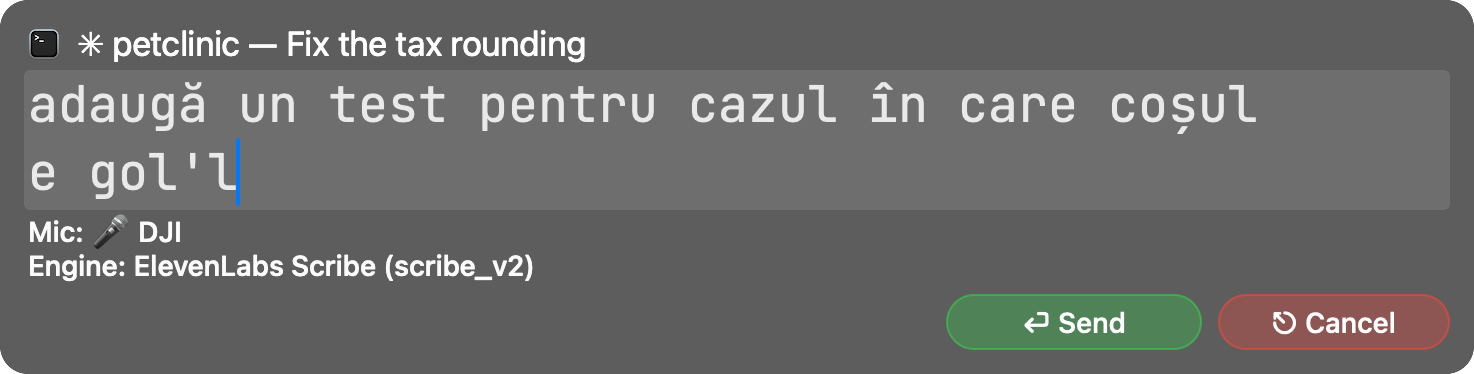
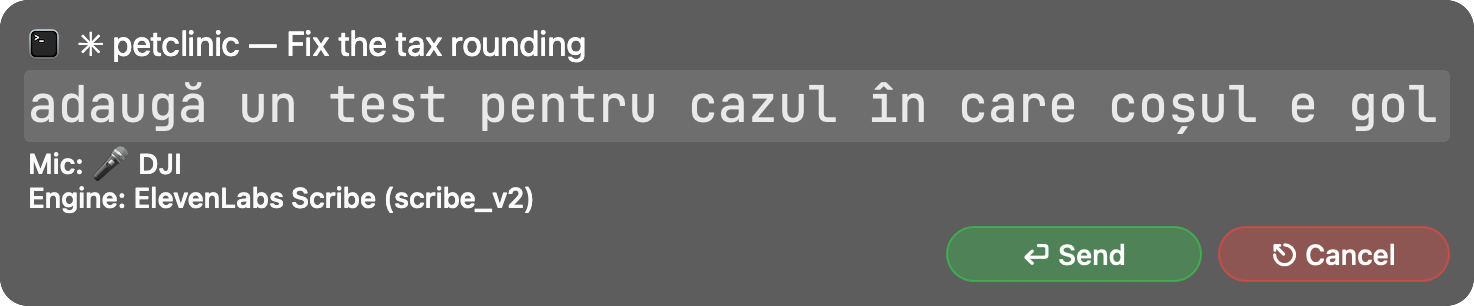
The states shoot puts no window on his screens: every NSWindow is swizzled offstage under RELAY_SHOOT, the menu-bar item hidden

Changed region(s): [[0.0, 0.0588, 0.9986, 0.7647], [0.6242, 0.7353, 1.0, 0.9706], [0.9986, 0.0294, 1.0, 0.0882]]

diff --git a/Sources/WalkieTalkie/Offstage.swift b/Sources/WalkieTalkie/Offstage.swift
@@ -1,0 +1,74 @@
+import AppKit
+import ObjectiveC
+
+/// **Under `RELAY_SHOOT` no window of this process ever reaches a screen**
+/// (2026-10-08, Victor: *"când faci pozele la acele tooltipuri … și la panelul
+/// din stânga sus, mereu mă frânez din a dicta … să nu mai văd alea … îmi apare
+/// și în jurul mouse-ului, mă distrage"*).
+///
+/// The chip already parked itself 4000 pt off the displays while shooting
+/// (`RelayWindow.reposition`), but only on that one path: the pointer-following
+/// path, the panel unfolding into its corner, the hint bar, the halo and every
+/// other window still put frames on his screen for a third of a second each.
+/// Patching each was the losing game, so this catches them at the source: every
+/// frame setter and every order-front of every `NSWindow` is swizzled to shift
+/// the window `shift` points left of where it was asked to be. A snapshot is the
+/// view drawing itself (`cacheDisplay`), which needs a window, not a visible
+/// one, so the pictures do not change — sizes and everything inside are as asked.
+///
+/// Installed from `main.swift` before `NSApplication.shared`, and only when
+/// `RELAY_SHOOT` is set; nothing else ever runs through it.
+enum Offstage {
+    /// Far enough left of the leftmost display any desk has; idempotent past
+    /// `threshold`, because layout code reads the frame back and sets it again.
+    static let shift: CGFloat = 12000
+    private static let threshold: CGFloat = -8000
+
+    static func offstage(_ r: NSRect) -> NSRect {
+        r.minX < threshold ? r : r.offsetBy(dx: -shift, dy: 0)
+    }
+
+    static func install() {
+        swap(#selector(NSWindow.setFrame(_:display:)), #selector(NSWindow.wt_setFrame(_:display:)))
+        swap(#selector(NSWindow.setFrame(_:display:animate:)), #selector(NSWindow.wt_setFrame(_:display:animate:)))
+        swap(#selector(NSWindow.setFrameOrigin(_:)), #selector(NSWindow.wt_setFrameOrigin(_:)))
+        swap(#selector(NSWindow.setFrameTopLeftPoint(_:)), #selector(NSWindow.wt_setFrameTopLeftPoint(_:)))
+        swap(#selector(NSWindow.orderFront(_:)), #selector(NSWindow.wt_orderFront(_:)))
+        swap(#selector(NSWindow.orderFrontRegardless), #selector(NSWindow.wt_orderFrontRegardless))
+        swap(#selector(NSWindow.makeKeyAndOrderFront(_:)), #selector(NSWindow.wt_makeKeyAndOrderFront(_:)))
+        swap(#selector(NSWindow.order(_:relativeTo:)), #selector(NSWindow.wt_order(_:relativeTo:)))
+    }
+
+    private static func swap(_ original: Selector, _ replacement: Selector) {
+        guard let a = class_getInstanceMethod(NSWindow.self, original),
+              let b = class_getInstanceMethod(NSWindow.self, replacement) else { return }
+        method_exchangeImplementations(a, b)
+    }
+}
+
+extension NSWindow {
+    // After the exchange each `wt_` name calls the original implementation.
+    @objc fileprivate func wt_setFrame(_ r: NSRect, display: Bool) {
+        wt_setFrame(Offstage.offstage(r), display: display)
+    }
+    @objc fileprivate func wt_setFrame(_ r: NSRect, display: Bool, animate: Bool) {
+        wt_setFrame(Offstage.offstage(r), display: display, animate: animate)
+    }
+    @objc fileprivate func wt_setFrameOrigin(_ p: NSPoint) {
+        wt_setFrameOrigin(Offstage.offstage(NSRect(origin: p, size: frame.size)).origin)
+    }
+    @objc fileprivate func wt_setFrameTopLeftPoint(_ p: NSPoint) {
+        let r = Offstage.offstage(NSRect(x: p.x, y: p.y - frame.height, width: frame.width, height: frame.height))
+        wt_setFrameTopLeftPoint(NSPoint(x: r.minX, y: r.maxY))
+    }
+    private func wt_park() {
+        if frame.minX >= -8000 { wt_setFrameOrigin(Offstage.offstage(frame).origin) }
+    }
+    @objc fileprivate func wt_orderFront(_ sender: Any?) { wt_park(); wt_orderFront(sender) }
+    @objc fileprivate func wt_orderFrontRegardless() { wt_park(); wt_orderFrontRegardless() }
+    @objc fileprivate func wt_makeKeyAndOrderFront(_ sender: Any?) { wt_park(); wt_makeKeyAndOrderFront(sender) }
+    @objc fileprivate func wt_order(_ place: NSWindow.OrderingMode, relativeTo other: Int) {
+        if place != .out { wt_park() }
+        wt_order(place, relativeTo: other)
+    }
+}

diff --git a/docs/overlay-states.html b/docs/overlay-states.html
@@ -726,16 +726,16 @@
       <section class="card" id="prompt-editing">
         <header>
           <h3>Correcting the transcript</h3>
-          <div class="tags"><span class="tag tag-panel" title="top-left of the screen, blurred, full opacity, ✕ on hover">panel</span><span class="tag">alpha 1.00</span><span class="tag">737×187 pt</span></div>
+          <div class="tags"><span class="tag tag-panel" title="top-left of the screen, blurred, full opacity, ✕ on hover">panel</span><span class="tag">alpha 1.00</span><span class="tag">737×153 pt</span></div>
         </header>
-        <div class="shot"><img src="states/prompt-editing.png" width="737" height="187" style="opacity:1" alt="Correcting the transcript"></div>
+        <div class="shot"><img src="states/prompt-editing.png" width="737" height="153" style="opacity:1" alt="Correcting the transcript"></div>
         <p class="when">He clicked the words — one wrong word in forty is not worth saying again.</p>
         <p class="note">The clock stops (<code>⏎ Send</code> with no seconds) and the field holds <em>only his words</em>: the <code>📸</code> and <code>↪</code> decorations the preview adds are not his, so they must not be in the box he is typing in. Nothing takes him out of it except Send or Cancel.</p>
         <code class="slug">prompt-editing</code>
       </section>
     </div>
 <footer>
-  Generated from <code>OverlayStates.swift</code> · repo at c442ca4 · 08 Oct 2026 · built 08 Oct 2026, 06:39
+  Generated from <code>OverlayStates.swift</code> · repo at 6447c6d · 08 Oct 2026 · built 08 Oct 2026, 06:53
 </footer>
 <button class="toggle" onclick="document.body.classList.toggle('light')">Backdrop: dark / light</button>
 </body>

diff --git a/Sources/WalkieTalkie/main.swift b/Sources/WalkieTalkie/main.swift
@@ -128,6 +128,9 @@ if let spec = ProcessInfo.processInfo.environment["WT_HALO_DEMO"] {
     CaretHalo.demo(seconds: Double(spec) ?? 20)
 }
 
+// The states catalogue is shot with every window off the displays — `Offstage`.
+if ProcessInfo.processInfo.environment["RELAY_SHOOT"] != nil { Offstage.install() }
+
 let app = NSApplication.shared
 // **`.regular`, so it is in the Dock with a running dot under it** (Victor,
 // 2026-09-07). It was `.accessory` for two months on the argument that an

diff --git a/Sources/WalkieTalkie/StatusItem.swift b/Sources/WalkieTalkie/StatusItem.swift
@@ -904,6 +904,8 @@ final class StatusItem: NSObject, NSMenuDelegate {
 
     override init() {
         super.init()
+        // The states shooter shows nothing, the menu bar included (`Offstage`).
+        if RelayWindow.shooting { item.isVisible = false }
 
         // **A drawing of a walkie-talkie, in two states, replacing the 🤖.**
         //

diff --git a/.claude/rules/terminal-binding.md b/.claude/rules/terminal-binding.md
@@ -35,6 +35,7 @@ Rules for pointing the relay at a terminal, delivering into it, and keeping that
 ## The session's inbox — delivery without keystrokes (2026-10-08)
 
 - **A bound Terminal.app tab whose Claude Code session runs the `walkie-inbox` mod gets the sentence as a file, not as typing** (Victor: *"nu vreau niciun dialog de confirmare și sunt ok să rămână în coadă până când termină tura … poți să folosești moduri"*). The mod (`victor-skills-private/mods/walkie-inbox`, plugin `walkie-inbox@victor-skills-private`) keeps `~/.walkie-talkie/inbox/<ttysNNN>/.alive` fresh every 2 s (the tty found by walking up to the first ancestor that has one — a child of the session has none) and submits each `<stamp>.msg` with `$.prompt.submit({ text, asUser: true })`: read as his own words, **queued behind a running turn and started as a turn of its own**, never folded into one. `TerminalBinding.deliverToInbox` runs after the shell guard, writes `<stamp>.tmp` → renames to `.msg`, waits ≤ 3 s for it to be claimed; **the rename is the lock** (the mod claims by renaming to `.taken`, Walkie withdraws by renaming to `.withdrawn`; whichever lands first owns it), so the typed fallback and the mod can never both deliver one sentence. No live `.alive` (< 6 s), or not claimed → typed exactly as before. Log `📥 ttysNNN: taken by the session's walkie-inbox in N ms — no keystrokes`. `WT_INBOX=0` turns it off. First run 06:30, 54 ms, where the typed path had needed Return #6 for the sentence before.
+- **The transcript shows his words; the envelope goes as hidden `context`** (2026-10-08, *"să nu mai văd gunoiul ăla"*): the mod's `split` moves the bracketed footer and a leading token-only line (`[📸0🖱@… auto]`) into `prompt.submit`'s `context` ("what the model reads … the user never sees") and shows `🎙 · 📸 ×N` under the words; inline tokens stay. Only on the inbox route — the typed fallback still shows everything. Tests: `mods/walkie-inbox/hooks/split.test.ts`.
 - **The mod claims at once and submits on a chain** — `$.prompt.submit` resolves only when the queued turn *starts*; awaited in the poller it left the second sentence of a busy turn unclaimed and Walkie typed it mid-turn.
 - **Why not a channel**: `--dangerously-load-development-channels` asks at every start (a custom channel cannot join the allowlist without an org admin), and a channel message delivered mid-turn is framed as untrusted — the model refused it (2026-10-07). The cross-session socket arrives as a *peer*, not as him.
 

diff --git a/.claude/rules/overlay-chip.md b/.claude/rules/overlay-chip.md
@@ -25,6 +25,7 @@ Full history and reasoning: docs/journal.md — see the sections named after eac
   real views drawing themselves through `RelayWindow.snapshot`; `build-overlay-states.py` only
   lays them out. The script stands the installed app down (`SingleInstance`) and puts it back.
   → journal: *The overlay's states are photographed, and the page is part of the change*
+- **The shoot shows nothing on his screens** (2026-10-08, Victor: *"mereu mă frânez din a dicta, stau și mă uit la ele … îmi apare și în jurul mouse-ului"*). Under `RELAY_SHOOT`, `Offstage` (installed from `main.swift`) swizzles every `NSWindow` frame setter and order-front to shift the window 12 000 pt left of where it was asked — the chip, the panel's corner, the hint bar, the halo, every flight — and `StatusItem` hides its menu-bar item. Snapshots are `cacheDisplay`, which needs a window, not a visible one. Measured with a `CGWindowList` watcher over a whole shoot: 0 windows on a display (the menu-bar item, 5 × 37, before it was hidden). It also stopped his typing leaking into the `prompt-editing` field (`gol'l` in the old picture).
 - **A row whose string carries a picture is measured off the label, never off the font** (2026-09-19). `measure(_:font:)` knows one font and cannot answer for a run that is an image, so `rowWidth` is gone and both the engine row and the ⌘-pick row call `sizeToFit`. Measured on the real chip the day the microphone glyph shipped: the row asked for **158** and needed **161.5** drawn — and a label 3.5pt short does not lose 3.5 points off the end, it drops the whole tail, so `Listening(🎙/E)...` reached Victor as `Listening(🎙/`. The transcribing row measures the same way — through `statusLines` → `hintRows` → `sizeToFit` — which is why the engine logo could move onto it without a second width bug. → journal: *The chip says which microphone, and the menu picks it (2026-09-19)*
 - **`RELAY_SHOOT` photographs states, not transitions.** The `HQ` pop and every
   other animation are skipped under it — a transition is by definition not a state, so none of
